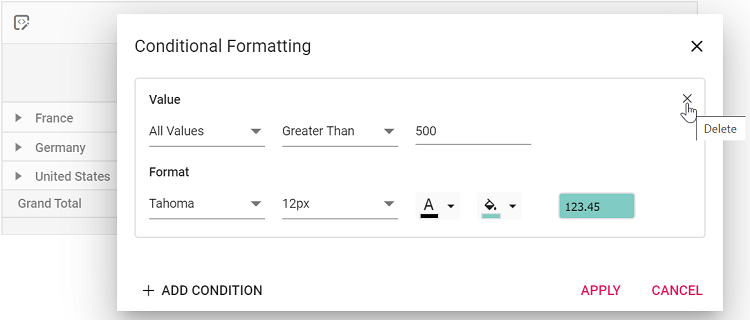
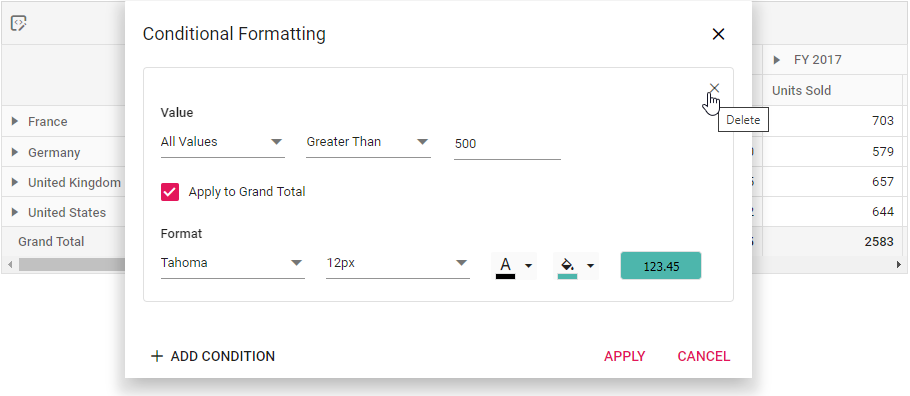
Integrated latest changes at 10-12-2024 4:30:12 PM

diff --git a/ej2-react/pivotview/conditional-formatting.md b/ej2-react/pivotview/conditional-formatting.md
@@ -12,7 +12,7 @@ domainurl: ##DomainURL##
 
 Allows end user to change the appearance of the pivot table value cells with its background color, font color, font family, and font size based on specific conditions.
 
-The conditional formatting can be applied at runtime through the built-in dialog, invoked from the toolbar. To do so, set [`allowConditionalFormatting`](https://ej2.syncfusion.com/react/documentation/api/pivotview/#allowconditionalformatting) and [`showToolbar`](https://ej2.syncfusion.com/react/documentation/api/pivotview/#showtoolbar) properties to **true**. Also, include the item **ConditionalFormatting** within the [`toolbar`](https://ej2.syncfusion.com/react/documentation/api/pivotview/#toolbar) property. End user can now see the "Conditional Formatting" icon in toolbar UI automatically, which on clicking will invoke the formatting dialog to perform necessary operations.
+The conditional formatting can be applied at runtime through the built-in dialog, invoked from the toolbar. To do so, set [allowConditionalFormatting](https://ej2.syncfusion.com/react/documentation/api/pivotview/#allowconditionalformatting) and [showToolbar](https://ej2.syncfusion.com/react/documentation/api/pivotview/#showtoolbar) properties to **true**. Also, include the item **ConditionalFormatting** within the [toolbar](https://ej2.syncfusion.com/react/documentation/api/pivotview/#toolbar) property. End user can now see the "Conditional Formatting" icon in toolbar UI automatically, which on clicking will invoke the formatting dialog to perform necessary operations.
 
 > To use the conditional formatting feature, You need to inject the `ConditionalFormatting` module in pivot table.
 
@@ -37,22 +37,23 @@ To learn about how to work with conditional formatting options, you can check on
 
  {% previewsample "page.domainurl/code-snippet/pivot-table/default-cs16" %}
 
-Conditional formatting can also be included in the pivot table through code-behind using the [`conditionalFormatSettings`](https://ej2.syncfusion.com/react/documentation/api/pivotview/dataSourceSettings/#conditionalformatsettings). The required properties to apply a new conditional formatting are,
+Conditional formatting can also be included in the pivot table through code-behind using the [conditionalFormatSettings](https://ej2.syncfusion.com/react/documentation/api/pivotview/dataSourceSettings/#conditionalformatsettings). The required properties to apply a new conditional formatting are,
 
-* [`measure`](https://ej2.syncfusion.com/react/documentation/api/pivotview/conditionalFormatSettings/#measure): Specifies the value field name for which style will be applied.
-* [`conditions`](https://ej2.syncfusion.com/react/documentation/api/pivotview/conditionalFormatSettings/#conditions): Specifies the operator type such as equals, greater than, less than, etc.
-* [`value1`](https://ej2.syncfusion.com/react/documentation/api/pivotview/conditionalFormatSettings/#value1): Specifies the start value.
-* [`value2`](https://ej2.syncfusion.com/react/documentation/api/pivotview/conditionalFormatSettings/#value2): Specifies the end value.
-* [`style`](https://ej2.syncfusion.com/react/documentation/api/pivotview/conditionalFormatSettings/#style): Specifies the style for the cell.
+* [applyGrandTotals](https://ej2.syncfusion.com/react/documentation/api/pivotview/conditionalFormatSettings/#applygrandtotals): This boolean property allows you to restrict conditional formatting for grand totals in the row and column axes. By default, this property is set to true.
+* [measure](https://ej2.syncfusion.com/react/documentation/api/pivotview/conditionalFormatSettings/#measure): Specifies the value field name for which style will be applied.
+* [conditions](https://ej2.syncfusion.com/react/documentation/api/pivotview/conditionalFormatSettings/#conditions): Defines the operator type used for conditional formatting, such as equals, greater than, less than, etc.
+* [value1](https://ej2.syncfusion.com/react/documentation/api/pivotview/conditionalFormatSettings/#value1): Specifies the starting value for the conditional formatting.
+* [value2](https://ej2.syncfusion.com/react/documentation/api/pivotview/conditionalFormatSettings/#value2): Specifies the ending value for the conditional formatting range. This property is applicable only for conditions like **Between** and **NotBetween**.
+* [style](https://ej2.syncfusion.com/react/documentation/api/pivotview/conditionalFormatSettings/#style): Specifies the custom styling applied to the cell.
 
-The available style properties in [`style`](https://ej2.syncfusion.com/react/documentation/api/pivotview/conditionalFormatSettings/#style), to set in value cells are:
+The available style properties in [style](https://ej2.syncfusion.com/react/documentation/api/pivotview/conditionalFormatSettings/#style), to set in value cells are:
 
-* [`backgroundColor`](https://ej2.syncfusion.com/react/documentation/api/pivotview/style/#backgroundcolor): Specifies the background color.
-* [`color`](https://ej2.syncfusion.com/react/documentation/api/pivotview/style/#color): Specifies the font color.
-* [`fontFamily`](https://ej2.syncfusion.com/react/documentation/api/pivotview/style/#fontfamily): Specifies the font family.
-* [`fontSize`](https://ej2.syncfusion.com/react/documentation/api/pivotview/style/#fontsize): Specifies the font size.
+* [backgroundColor](https://ej2.syncfusion.com/react/documentation/api/pivotview/style/#backgroundcolor): It allows to set the background color to the value cell in the pivot table.
+* [color](https://ej2.syncfusion.com/react/documentation/api/pivotview/style/#color): It allows to set the font color to the value cell in the pivot table.
+* [fontFamily](https://ej2.syncfusion.com/react/documentation/api/pivotview/style/#fontfamily): It allows to set the font family to the value cell in the pivot table.
+* [fontSize](https://ej2.syncfusion.com/react/documentation/api/pivotview/style/#fontsize): It allows to set the font size to the value cell in the pivot table.
 
-Meanwhile, user can also view conditional formatting dialog in UI by invoking [`showConditionalFormattingDialog`](https://ej2.syncfusion.com/react/documentation/api/pivotview/#showconditionalformattingdialog) method on an external button click which is shown in the below code sample.
+Meanwhile, user can also view conditional formatting dialog in UI by invoking [showConditionalFormattingDialog](https://ej2.syncfusion.com/react/documentation/api/pivotview/#showconditionalformattingdialog) method on an external button click which is shown in the below code sample.
 
 {% tabs %}
 {% highlight js tabtitle="App.jsx" %}
@@ -73,7 +74,7 @@ Meanwhile, user can also view conditional formatting dialog in UI by invoking [`
 
 ## Conditional formatting for all fields
 
-Allows end user to apply conditional formatting commonly for all value fields just by ignoring the [`measure`](https://ej2.syncfusion.com/react/documentation/api/pivotview/conditionalFormatSettings/#measure) property and setting rest of the properties in [`conditionalFormatSettings`](https://ej2.syncfusion.com/react/documentation/api/pivotview/dataSourceSettings/#conditionalformatsettings).
+Allows end user to apply conditional formatting commonly for all value fields just by ignoring the [measure](https://ej2.syncfusion.com/react/documentation/api/pivotview/conditionalFormatSettings/#measure) property and setting rest of the properties in [conditionalFormatSettings](https://ej2.syncfusion.com/react/documentation/api/pivotview/dataSourceSettings/#conditionalformatsettings).
 
 {% tabs %}
 {% highlight js tabtitle="App.jsx" %}
@@ -94,7 +95,7 @@ Allows end user to apply conditional formatting commonly for all value fields ju
 
 ## Conditional formatting for specific value field
 
-Allows end user to apply conditional formatting to a specific value field by setting the [`measure`](https://ej2.syncfusion.com/react/documentation/api/pivotview/conditionalFormatSettings/#measure) property with specific value field name in [`conditionalFormatSettings`](https://ej2.syncfusion.com/react/documentation/api/pivotview/dataSourceSettings/#conditionalformatsettings).
+Allows end user to apply conditional formatting to a specific value field by setting the [measure](https://ej2.syncfusion.com/react/documentation/api/pivotview/conditionalFormatSettings/#measure) property with specific value field name in [conditionalFormatSettings](https://ej2.syncfusion.com/react/documentation/api/pivotview/dataSourceSettings/#conditionalformatsettings).
 
 {% tabs %}
 {% highlight js tabtitle="App.jsx" %}
@@ -123,15 +124,15 @@ Editing and removing existing conditional format can be done through the UI at r
 
 ### ConditionalFormatting
 
-The event [`conditionalFormatting`](https://ej2.syncfusion.com/react/documentation/api/pivotview/#conditionalformatting) is triggered initially while clicking the “ADD CONDITION” button inside the conditional formatting dialog in-order to fill user specific condition instead of default condition at runtime. To use this event, [`allowConditionalFormatting`](https://ej2.syncfusion.com/react/documentation/api/pivotview/#allowconditionalformatting) property in PivotView must be set to **true**. It has following parameters -
+The event [conditionalFormatting](https://ej2.syncfusion.com/react/documentation/api/pivotview/#conditionalformatting) is triggered initially while clicking the “ADD CONDITION” button inside the conditional formatting dialog in-order to fill user specific condition instead of default condition at runtime. To use this event, [allowConditionalFormatting](https://ej2.syncfusion.com/react/documentation/api/pivotview/#allowconditionalformatting) property in PivotView must be set to **true**. It has following parameters -
 
-* `applyGrandTotals` - boolean property, by setting this to true user can enable formatting to grand totals.
-* `conditions` - condition to be filled in conditional formatting dialog.
-* `label` - Label value for conditional formatting dialog.
-* `measure` - measure value for the conditional formatting dialog.
-* `style` - style property of the conditional formatting dialog.
-* `value1` - value 1 for conditional formatting dialog.
-* `value2` - value 2 for conditional formatting dialog, this is applicable only for selected conditions like **Between** and **NotBetween**.
+* `applyGrandTotals` - Allows to apply conditional formatting to the grand totals of row and column axis in the pivot table.
+* `conditions` - Allows you to choose the operator type such as equals, greater than, less than, etc. for conditional formatting.
+* `label` - Allows to set the header text of a specific row/column field to apply conditional formatting.
+* `measure` - Allows to set the value field name to apply conditional formatting.
+* `style` - Allows to set the custom styles for the formatting applied values in the pivot table.
+* `value1` - Allows you to set the start value for applying conditional formatting.
+* `value2` - Allows you to set the end value for applying conditional formatting. This property is applicable only for conditions like **Between** and **NotBetween**.
 
 {% tabs %}
 {% highlight js tabtitle="App.jsx" %}
